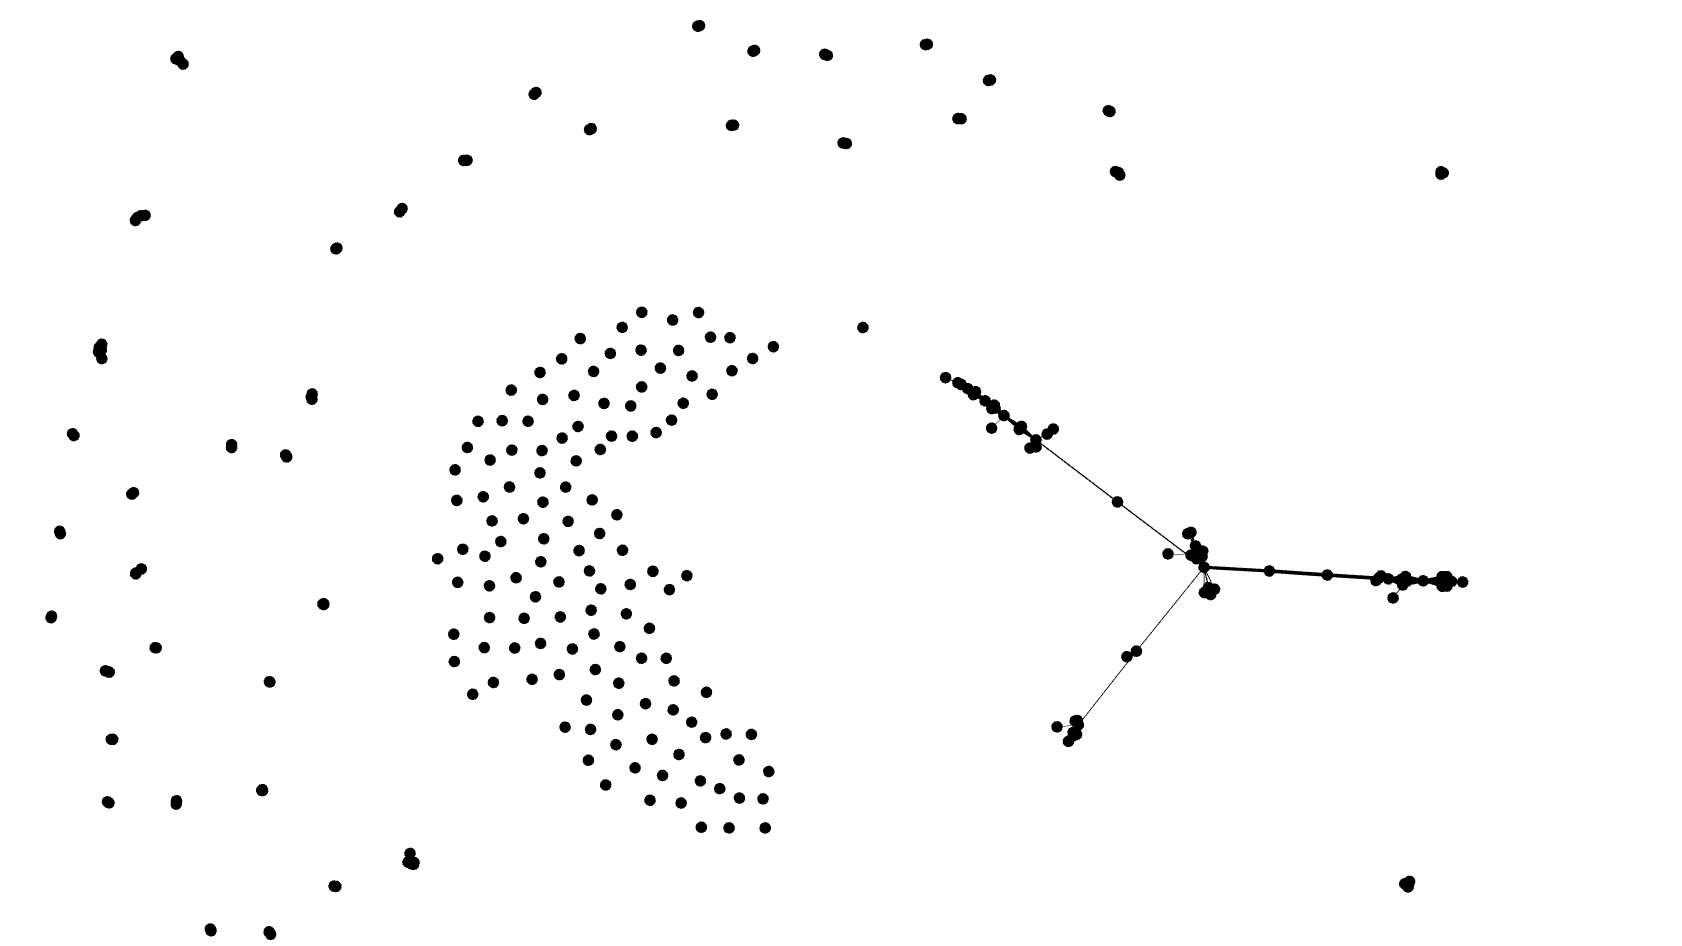
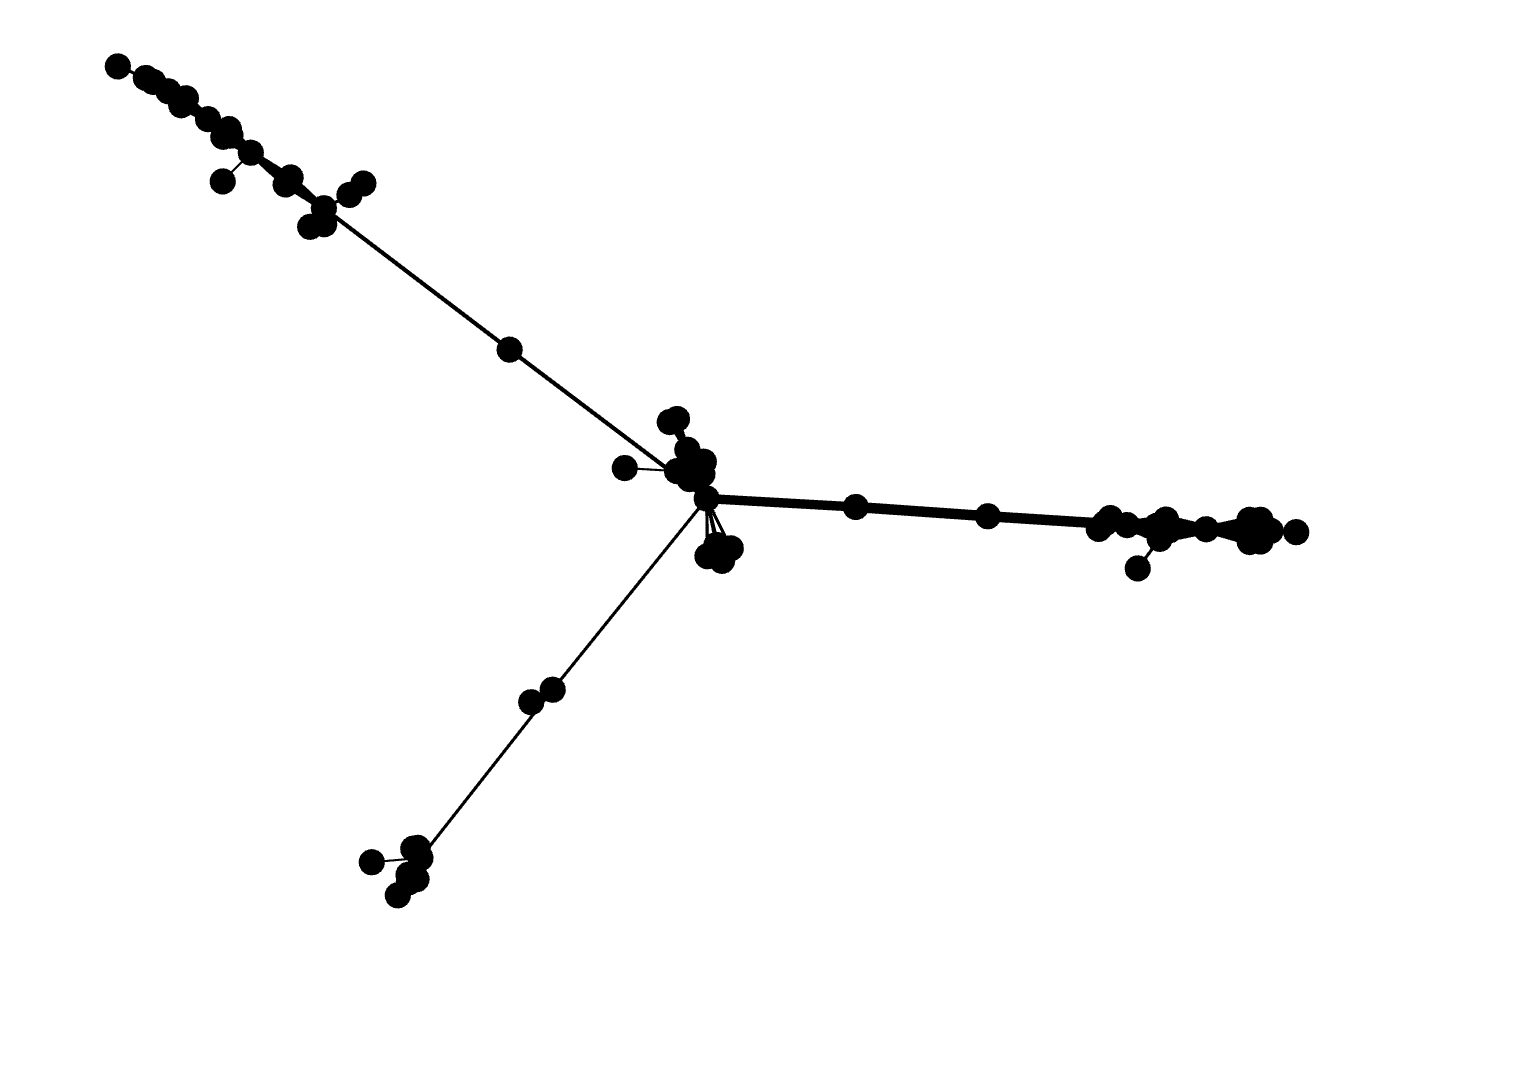
Only include connected nodes in simulation image

diff --git a/docs/M1/latex8.tex b/docs/M1/latex8.tex
@@ -127,7 +127,7 @@ In addition, we created a sample Susceptible-Infected simulation using the datas
 In Figure \ref{fig:my_label}, we can see the contact network after one day.
 \begin{figure}
     \centering
-    \includegraphics[width=0.30\textwidth]{imgs/one_day_net.png}
+    \includegraphics[width=0.28\textwidth]{imgs/one_day_net.png}
     \caption{Network after one day}
     \label{fig:my_label}
 \end{figure}
@@ -136,7 +136,7 @@ Network properties for this network were also calculated. The average node degre
 In addition, we can see the resulting infected graph from our simulation in Figure \ref{fig:my_label2}.
 \begin{figure}
     \centering
-    \includegraphics[width=0.30\textwidth]{imgs/simulation.png}
+    \includegraphics[width=0.25\textwidth]{imgs/simulation.png}
     \caption{Infected graph after one day}
     \label{fig:my_label2}
 \end{figure}
@@ -145,7 +145,7 @@ In this network, it is important to note that all of the visible nodes are infec
 In Figure \ref{fig:my_label3}, we can see the number of infected nodes over time. We can see that the infection doesn't really start to spread until the latter half of the day, and then looks as though the rate of infection is about to increase exponentially before the day ends. This lines up with our intuition, as we would expect the infection to spread faster as more people get infected.
 \begin{figure}
     \centering
-    \includegraphics[width=0.30\textwidth]{imgs/infected_over_time.png}
+    \includegraphics[width=0.28\textwidth]{imgs/infected_over_time.png}
     \caption{Number of infected nodes over time}
     \label{fig:my_label3}
 \end{figure}
